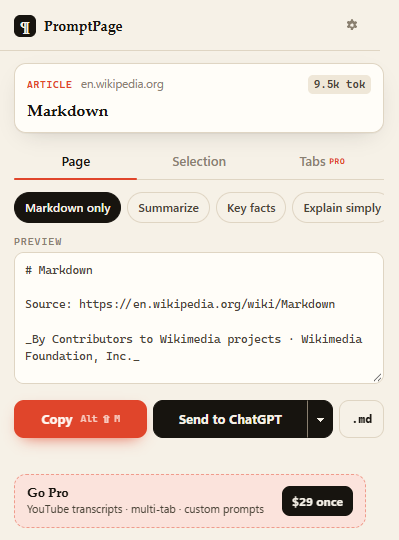
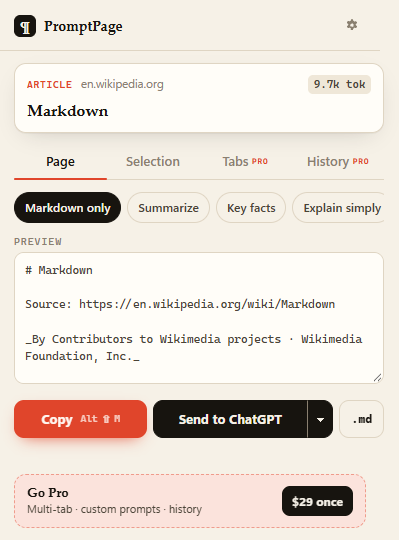
Add files via upload

diff --git a/index.html b/index.html
@@ -5,7 +5,7 @@
   <meta name="viewport" content="width=device-width, initial-scale=1" />
   <meta name="color-scheme" content="light dark" />
   <title>PromptPage — Any page to a perfect AI prompt</title>
-  <meta name="description" content="Chrome extension that turns any web page, selection or YouTube video into clean Markdown and ready-to-send prompts for ChatGPT, Claude, Gemini and Perplexity." />
+  <meta name="description" content="Chrome extension that turns any web page or selection into clean Markdown and ready-to-send prompts for ChatGPT, Claude, Gemini and Perplexity." />
   <link rel="icon" href="img/icon.png" />
   <link rel="stylesheet" href="style.css" />
 </head>
@@ -25,7 +25,7 @@
         <div>
           <span class="eyebrow">Chrome extension</span>
           <h1 id="hero-title">Any page, into a <em>perfect</em> AI prompt.</h1>
-          <p class="lead">One click turns articles, docs, selections and YouTube videos into clean Markdown — then sends it to ChatGPT, Claude, Gemini or Perplexity with the instruction you need.</p>
+          <p class="lead">One click turns articles, docs and selections into clean Markdown — then sends it to ChatGPT, Claude, Gemini or Perplexity with the instruction you need.</p>
           <div class="cta">
             <a class="btn btn-primary" href="https://chromewebstore.google.com/search/PromptPage">Add to Chrome — free</a>
             <a class="btn btn-dark" href="#pricing">Get Pro <small>$29 once</small></a>
@@ -34,7 +34,7 @@
         </div>
         <div class="stage" aria-hidden="true">
           <img class="shot shot-a" src="img/popup-article.png" alt="" width="400" height="510" />
-          <img class="shot shot-b" src="img/popup-youtube.png" alt="" width="400" height="540" />
+          <img class="shot shot-b" src="img/popup-history.png" alt="" width="400" height="540" />
         </div>
       </section>
 
@@ -43,7 +43,7 @@
         <p class="section-lead">Menus, ads, cookie banners and footers waste your AI's context. PromptPage keeps only what matters, formatted the way models read best.</p>
         <ol class="steps">
           <li><div><h3>Clean Markdown, not page soup</h3><p>The main article is extracted with headings, lists, tables, links and code blocks intact. Navigation and clutter are dropped.</p></div></li>
-          <li><div><h3>YouTube transcripts with chapters</h3><p>Open a video, click once, get the full transcript grouped by chapter with timestamps — ready to summarize.</p></div></li>
+          <li><div><h3>Prompt history</h3><p>Every prompt you copy or send is saved locally. Reopen, tweak and resend it later in one click.</p></div></li>
           <li><div><h3>Send straight to your AI</h3><p>ChatGPT, Claude, Gemini or Perplexity opens in a new tab with your prompt already filled in.</p></div></li>
           <li><div><h3>Prompt templates</h3><p>Summarize, extract key facts, explain simply, or chat about the page. Pro lets you save your own.</p></div></li>
           <li><div><h3>Combine many tabs</h3><p>Researching? Merge up to 20 open tabs into one prompt with a source header for each.</p></div></li>
@@ -63,7 +63,7 @@
               <li>5 built-in prompt templates</li>
               <li>Send to ChatGPT, Claude, Gemini, Perplexity</li>
               <li>Download as .md</li>
-              <li>YouTube transcript preview (first 3 minutes)</li>
+              <li>Token count &amp; clean trimming for long pages</li>
             </ul>
             <a class="btn btn-dark" href="https://chromewebstore.google.com/search/PromptPage">Add to Chrome</a>
           </div>
@@ -72,7 +72,7 @@
             <div class="price">$29 <small>one-time</small></div>
             <ul>
               <li>Everything in Free</li>
-              <li>Full YouTube transcripts with chapters</li>
+              <li>Prompt history: reopen and resend past prompts</li>
               <li>Combine up to 20 tabs in one prompt</li>
               <li>Your own custom prompt templates</li>
               <li>All future updates</li>

diff --git a/terms.html b/terms.html
@@ -24,7 +24,7 @@
     <p>Orders are processed by Polar, our merchant of record, which handles payment, taxes and invoices. Prices are shown in US dollars and may include applicable taxes at checkout.</p>
 
     <h2>4. Updates</h2>
-    <p>Pro includes all future updates to the extension. Features may change over time as websites and browsers change. Some features (for example YouTube transcripts) depend on third-party websites and may stop working temporarily if those websites change.</p>
+    <p>Pro includes all future updates to the extension. Features may change over time as websites and browsers change. Page extraction depends on how each website is built and may not work perfectly on every site.</p>
 
     <h2>5. Acceptable use</h2>
     <p>You are responsible for the content you capture and for complying with the terms of the websites you use PromptPage on and the AI services you send content to.</p>

diff --git a/thanks.html b/thanks.html
@@ -22,7 +22,7 @@
       <li>Click the <strong>gear icon</strong> to open Settings.</li>
       <li>Paste your license key (it starts with <code>PP-</code>) and click <strong>Activate</strong>.</li>
     </ol>
-    <p>That's it — full YouTube transcripts, multi-tab prompts and custom templates are unlocked.</p>
+    <p>That's it — multi-tab prompts, custom templates and prompt history are unlocked.</p>
 
     <h2>Haven't installed the extension yet?</h2>
     <p><a class="btn btn-primary" href="https://chromewebstore.google.com/search/PromptPage">Get PromptPage from the Chrome Web Store</a></p>
